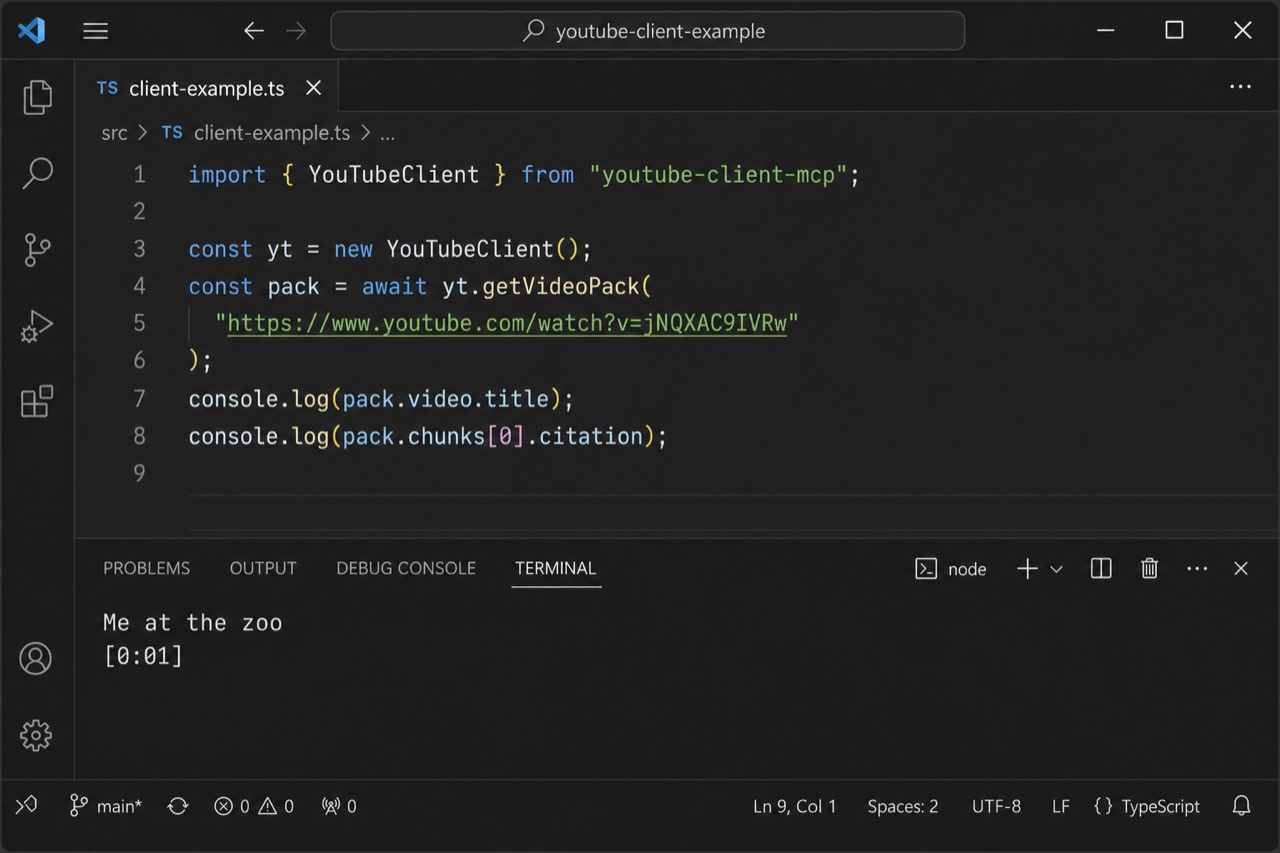
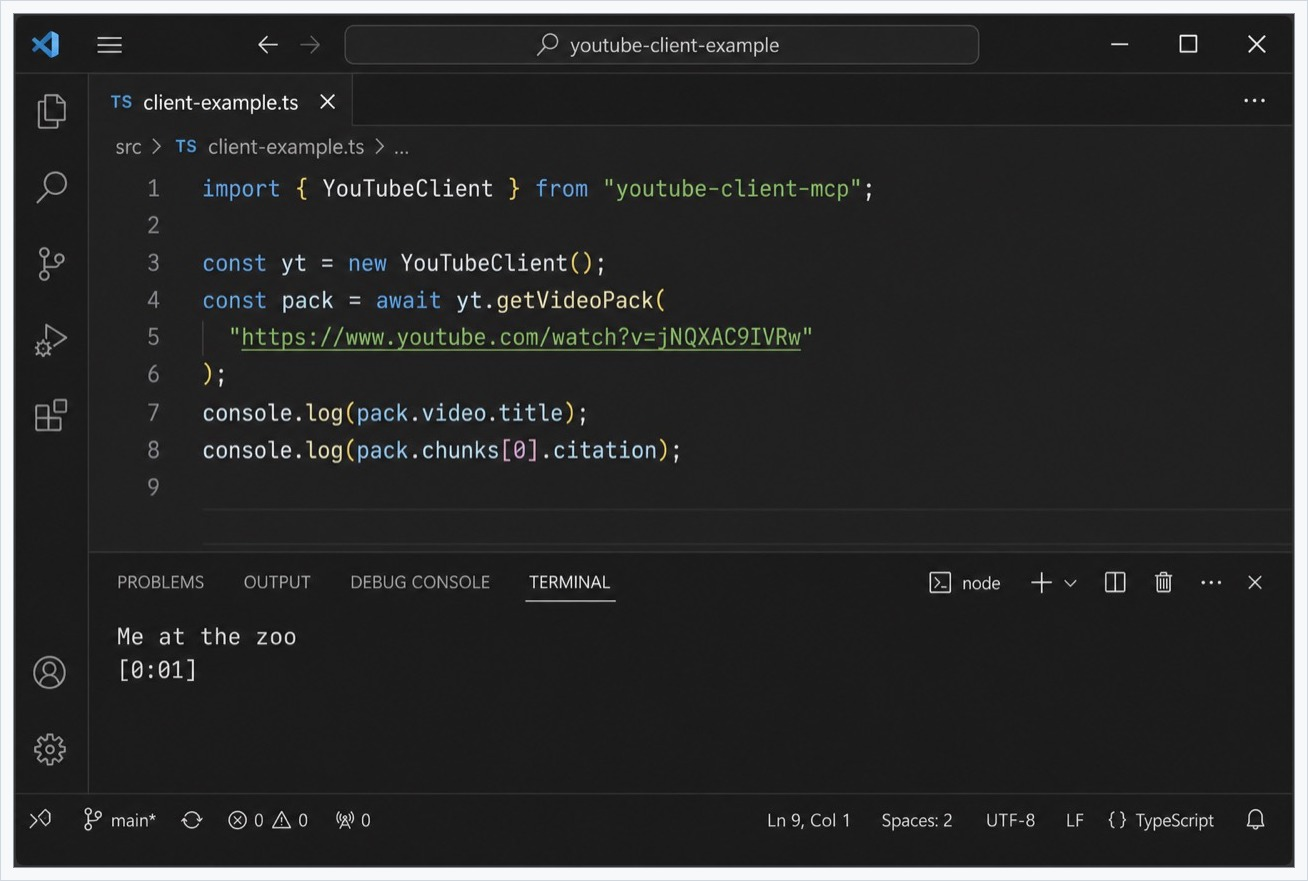
Fix README branding contrast on dark GitHub and npm.
Remove the light-logo media query that washed out title text, and frame the dark IDE screenshots so they stay visible against a black page.

diff --git a/README.md b/README.md
@@ -115,7 +115,9 @@ From a git checkout: `npm install && npm run build` (TypeScript only).
 
 Importing the package does **not** start the MCP server.
 
-![Library usage — getVideoPack in TypeScript](docs/library-usage.jpg)
+<p align="center">
+  <img src="docs/library-usage.jpg" alt="Library usage — getVideoPack in TypeScript" width="800" style="border-radius: 8px; border: 1px solid #8b949e;">
+</p>
 
 ```ts
 import { YouTubeClient, YtubeError, youtube } from "youtube-client-mcp";
@@ -437,7 +439,9 @@ including `get_video_pack`, `ask_video`, `get_playlist_pack`, `get_channel_pack`
 `get_channel_catalog`, `export_channel_analysis`, `get_transcript` (with
 `maxChars` / `cursor` paging), and `get_comments`.
 
-![MCP usage — YouTube Client tools in an agent chat](docs/mcp-usage.jpg)
+<p align="center">
+  <img src="docs/mcp-usage.jpg" alt="MCP usage — YouTube Client tools in an agent chat" width="800" style="border-radius: 8px; border: 1px solid #8b949e;">
+</p>
 
 ### Cursor
 
